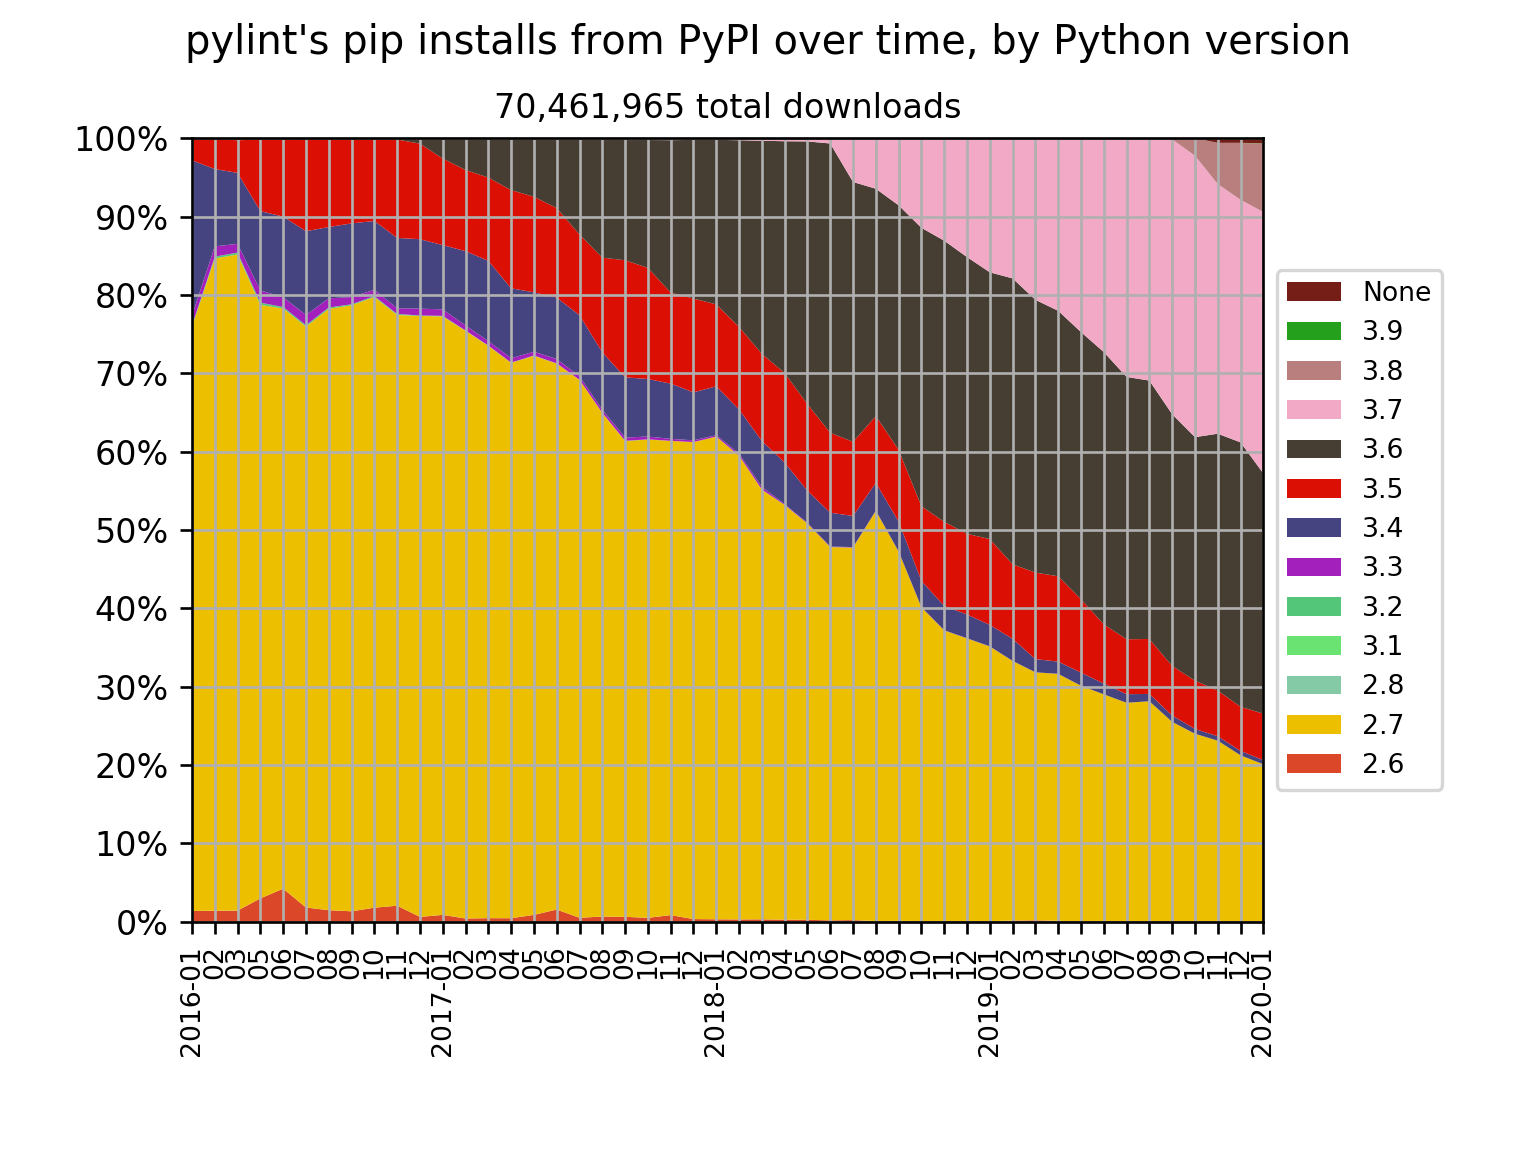
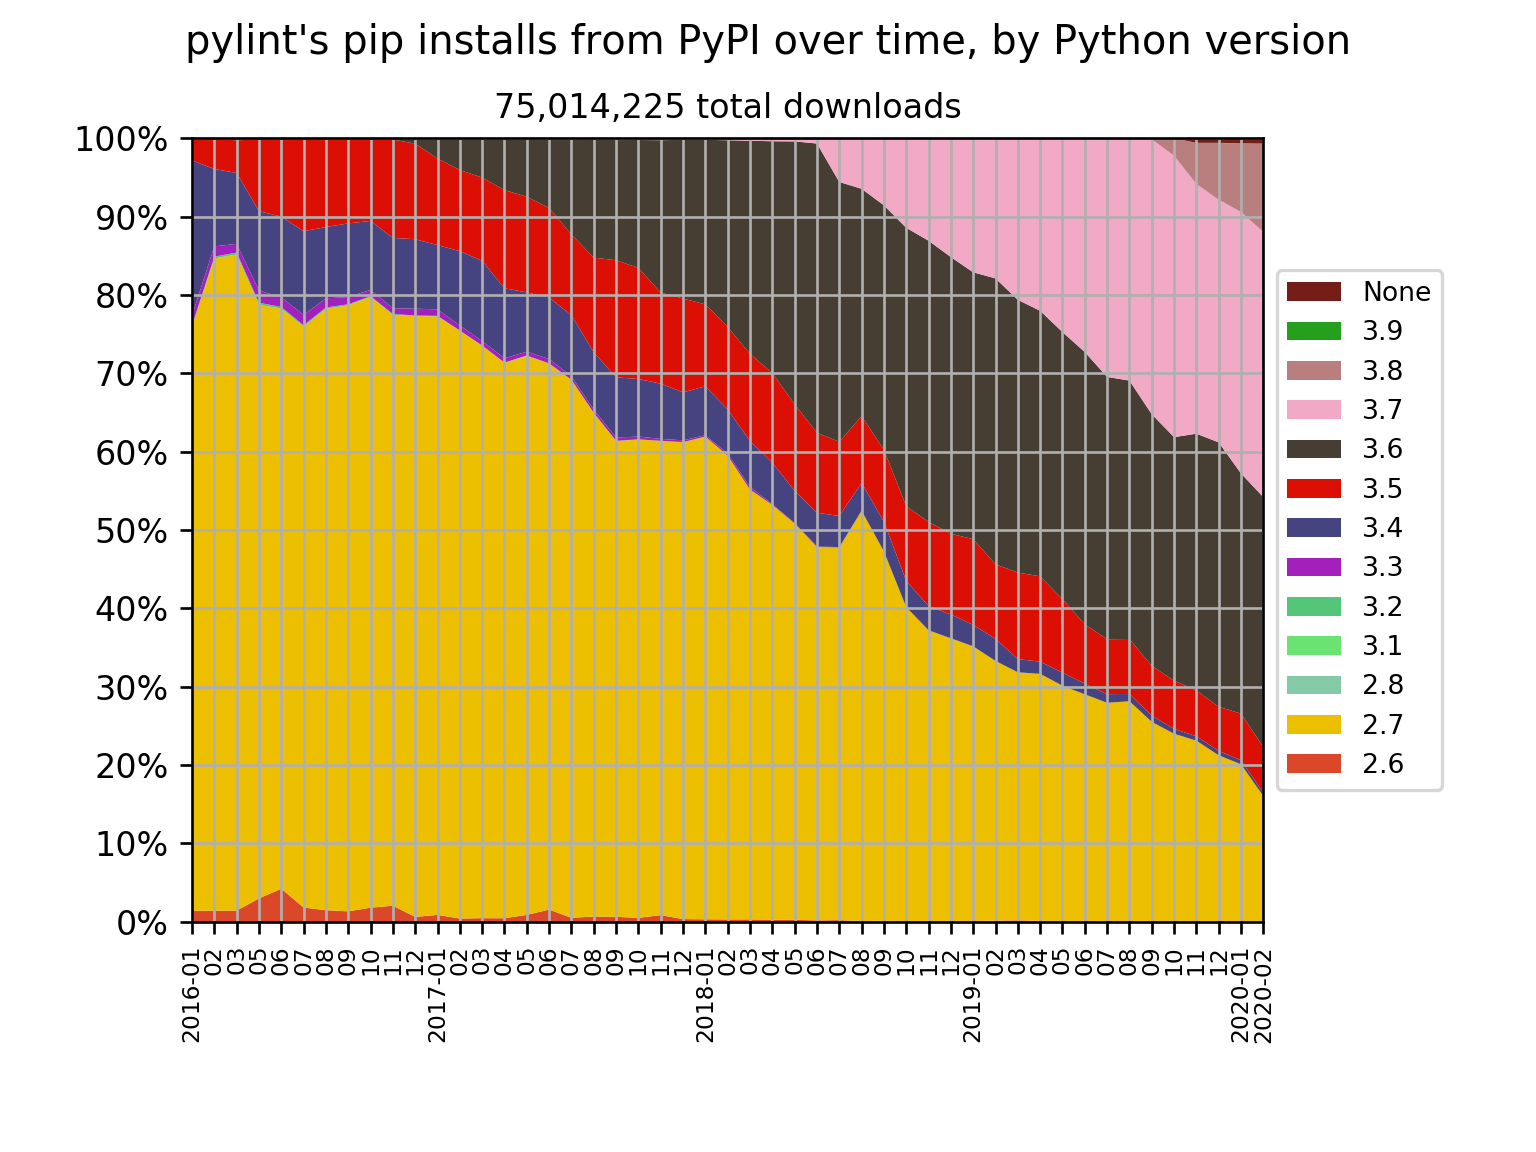
Add 2020-02 data

Changed region(s): [[0.0938, 0.0625, 0.8438, 0.9062], [0.8125, 0.4062, 0.8438, 0.4375]]

diff --git a/jsons2csv.py b/jsons2csv.py
@@ -99,7 +99,7 @@ def make_chart(data, index, project_name, no_show):
             x_labels.append(year_month)
             last_year = year
     x_labels.append(index[-1])  # No change for last one
-    ax.set_xticklabels(x_labels, fontsize=8)
+    ax.set_xticklabels(x_labels, fontsize=7)
 
     plt.xticks(rotation=90)
 
